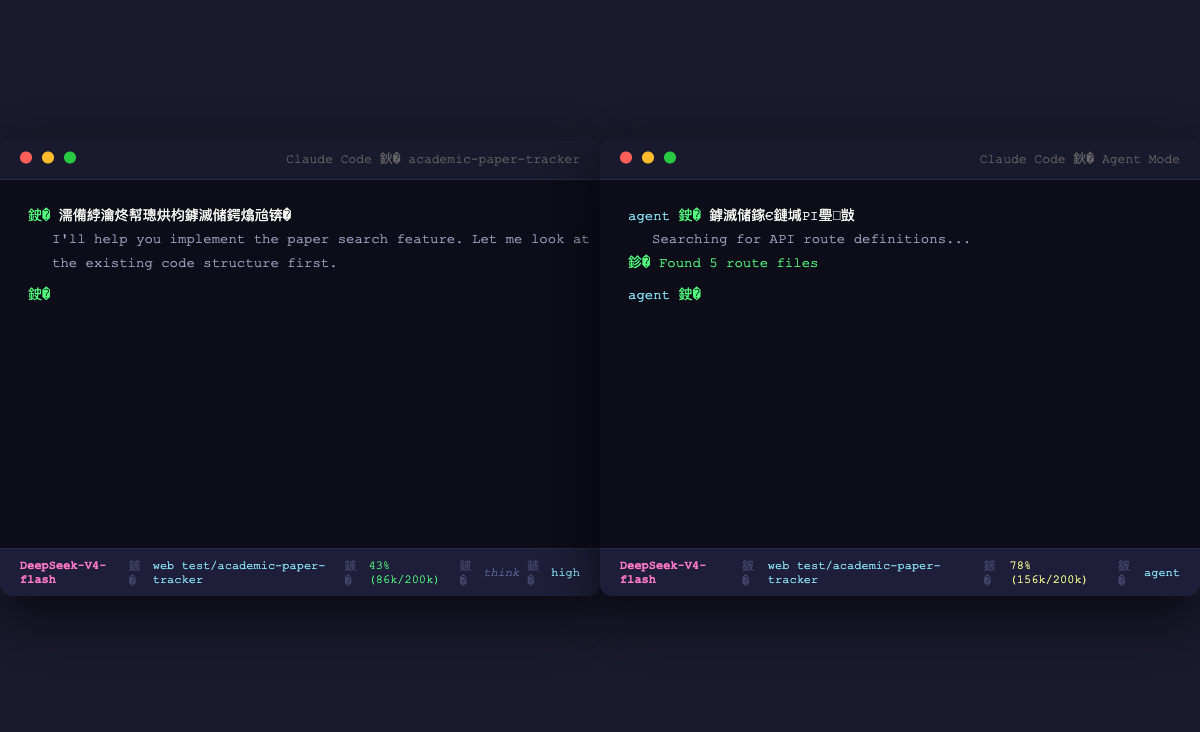
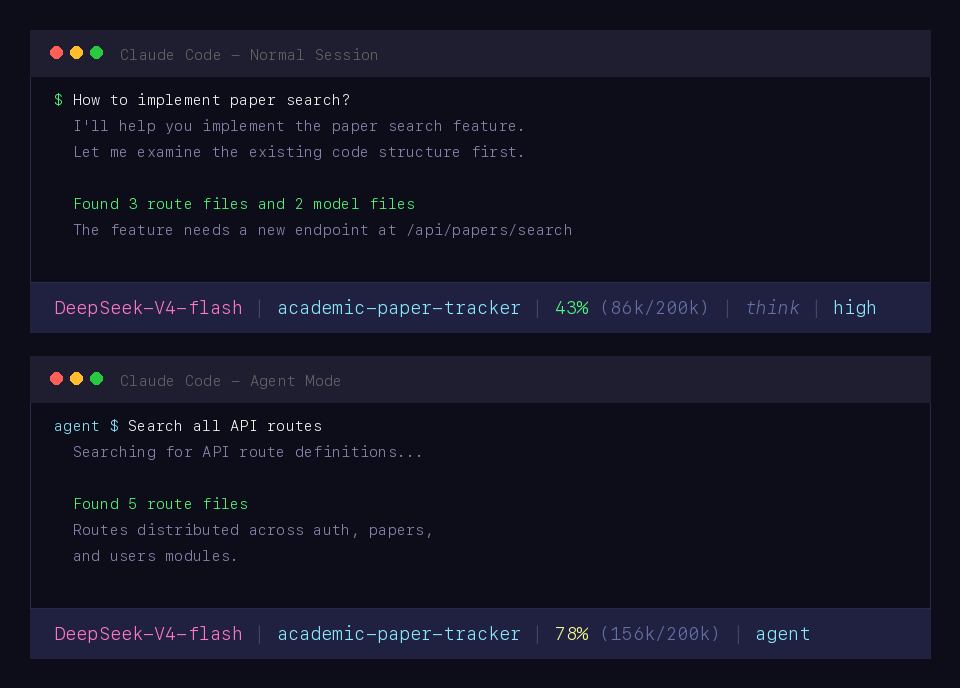
fix: regenerate screenshots with proper rendering
- Replace Unicode characters with ASCII-compatible rendering
- Generate individual status bar images for each mode
- Re-render full terminal simulator with clean Pillow output
- Remove unreferenced old screenshot file

diff --git a/README.zh-CN.md b/README.zh-CN.md
@@ -19,10 +19,10 @@
 
 ## 📸 效果预览
 
-| 正常模式 | 上下文预警 | Agent 模式 |
+| 正常模式 | 上下文偏高 | 上下文预警 |
 |:---:|:---:|:---:|
-| ![正常](screenshots/statusbar-closeup.png) | ![预警](screenshots/statusbar-closeup.png) | ![Agent](screenshots/statusbar-closeup.png) |
-| 上下文健康 (< 50%) | 上下文偏高 (50-80%) | Agent 子进程运行中 |
+| ![正常](screenshots/statusbar-normal.png) | ![偏高](screenshots/statusbar-warning.png) | ![预警](screenshots/statusbar-agent.png) |
+| 上下文健康 (< 50%) | 较高占用 (50-80%) | 危险占用 (> 80%) |
 
 ![完整界面](screenshots/statusbar-simulator.png)
 

diff --git a/README.md b/README.md
@@ -21,8 +21,8 @@
 
 | Normal Mode | Context Warning | Agent Mode |
 |:---:|:---:|:---:|
-| ![Normal](screenshots/statusbar-closeup.png) | ![Warning](screenshots/statusbar-closeup.png) | ![Agent](screenshots/statusbar-closeup.png) |
-| Healthy context usage (< 50%) | Elevated usage (50-80%) | Agent subprocess active |
+| ![Normal](screenshots/statusbar-normal.png) | ![Warning](screenshots/statusbar-warning.png) | ![Agent](screenshots/statusbar-agent.png) |
+| Healthy context (< 50%) | Elevated usage (50-80%) | Context danger (> 80%) |
 
 ![Full Interface](screenshots/statusbar-simulator.png)
 